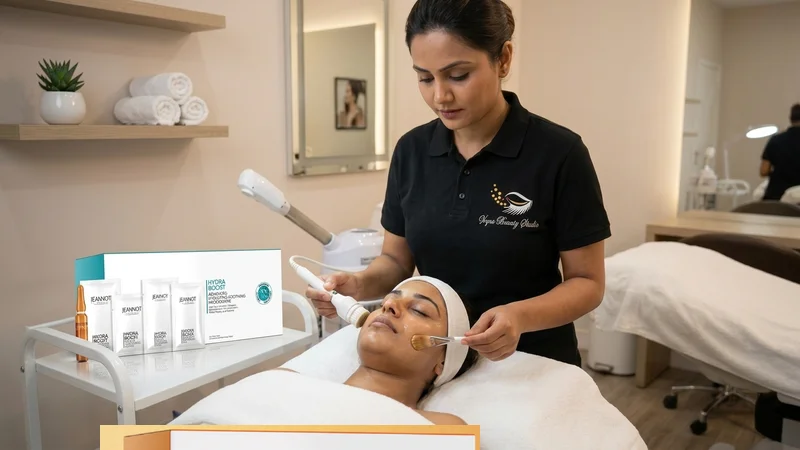
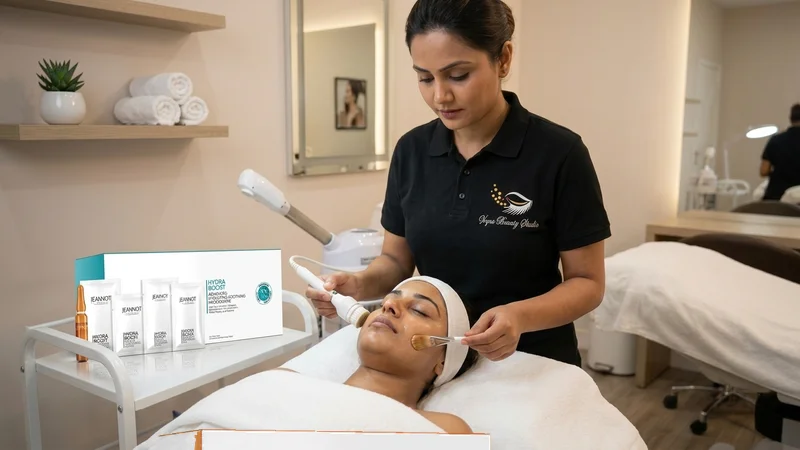
feat(media): add authentic Jeannot Ceuticals Instant Glow Vitamin C kit treatment photo for Instant Glow Facial

Changed region(s): [[0.125, 0.9333, 0.625, 1.0]]

diff --git a/lib/customer-images.ts b/lib/customer-images.ts
@@ -228,9 +228,6 @@ export const EXACT_SERVICE_IMAGES: Record<string, string> = {
   'instant glow': '/services/instant_glow_facial.webp',
   'vitamin c facial': '/services/instant_glow_facial.webp',
   'vitamin c brightening facial': '/services/instant_glow_facial.webp',
-  'infinite youth facial': '/services/infinite_youth_facial.webp',
-  'infinite youth': '/services/infinite_youth_facial.webp',
-  'pro-collagen firming facial': '/services/infinite_youth_facial.webp',
   'herbal deep cleanup': '/services/herbal_cleanup.webp',
   'fruit glow facial': '/services/fruit_facial.webp',
   'gold radiance facial': '/services/gold_facial.webp',
@@ -240,7 +237,7 @@ export const EXACT_SERVICE_IMAGES: Record<string, string> = {
   'korean glass skin treatment': '/services/diamond_facial.webp',
   'd-tan face & neck cleanup': '/services/herbal_cleanup.webp',
   'charcoal detox facial': '/services/face_bleach_pack.webp',
-  'collagen anti-aging facial': '/services/infinite_youth_facial.webp',
+  'collagen anti-aging facial': '/services/gold_facial.webp',
 
   // Waxing & Threading (100% authentic generated & studio-matched)
   'eyebrow & upper lip threading': '/services/eyebrow_threading.webp',
@@ -316,14 +313,11 @@ export function getServiceImage(serviceName: string, category?: string): string 
   }
 
   // Skin Care & Facials
-  if (name.includes('infinite youth') || name.includes('pro-collagen') || name.includes('firming')) {
-    return '/services/infinite_youth_facial.webp';
-  }
-  if (name.includes('instant glow') || name.includes('vitamin c') || name.includes('brightening programme')) {
-    return '/services/instant_glow_facial.webp';
-  }
   if (name.includes('shine control') || name.includes('acne') || name.includes('purify') || name.includes('mattifying')) {
     return '/services/shine_control_facial.webp';
+  }
+  if (name.includes('instant') || name.includes('vitamin c') || name.includes('glow facial')) {
+    return '/services/instant_glow_facial.webp';
   }
   if (name.includes('brilliance') || name.includes('pigment') || name.includes('whitening')) {
     return '/services/brilliance_pigmentation_facial.webp';
